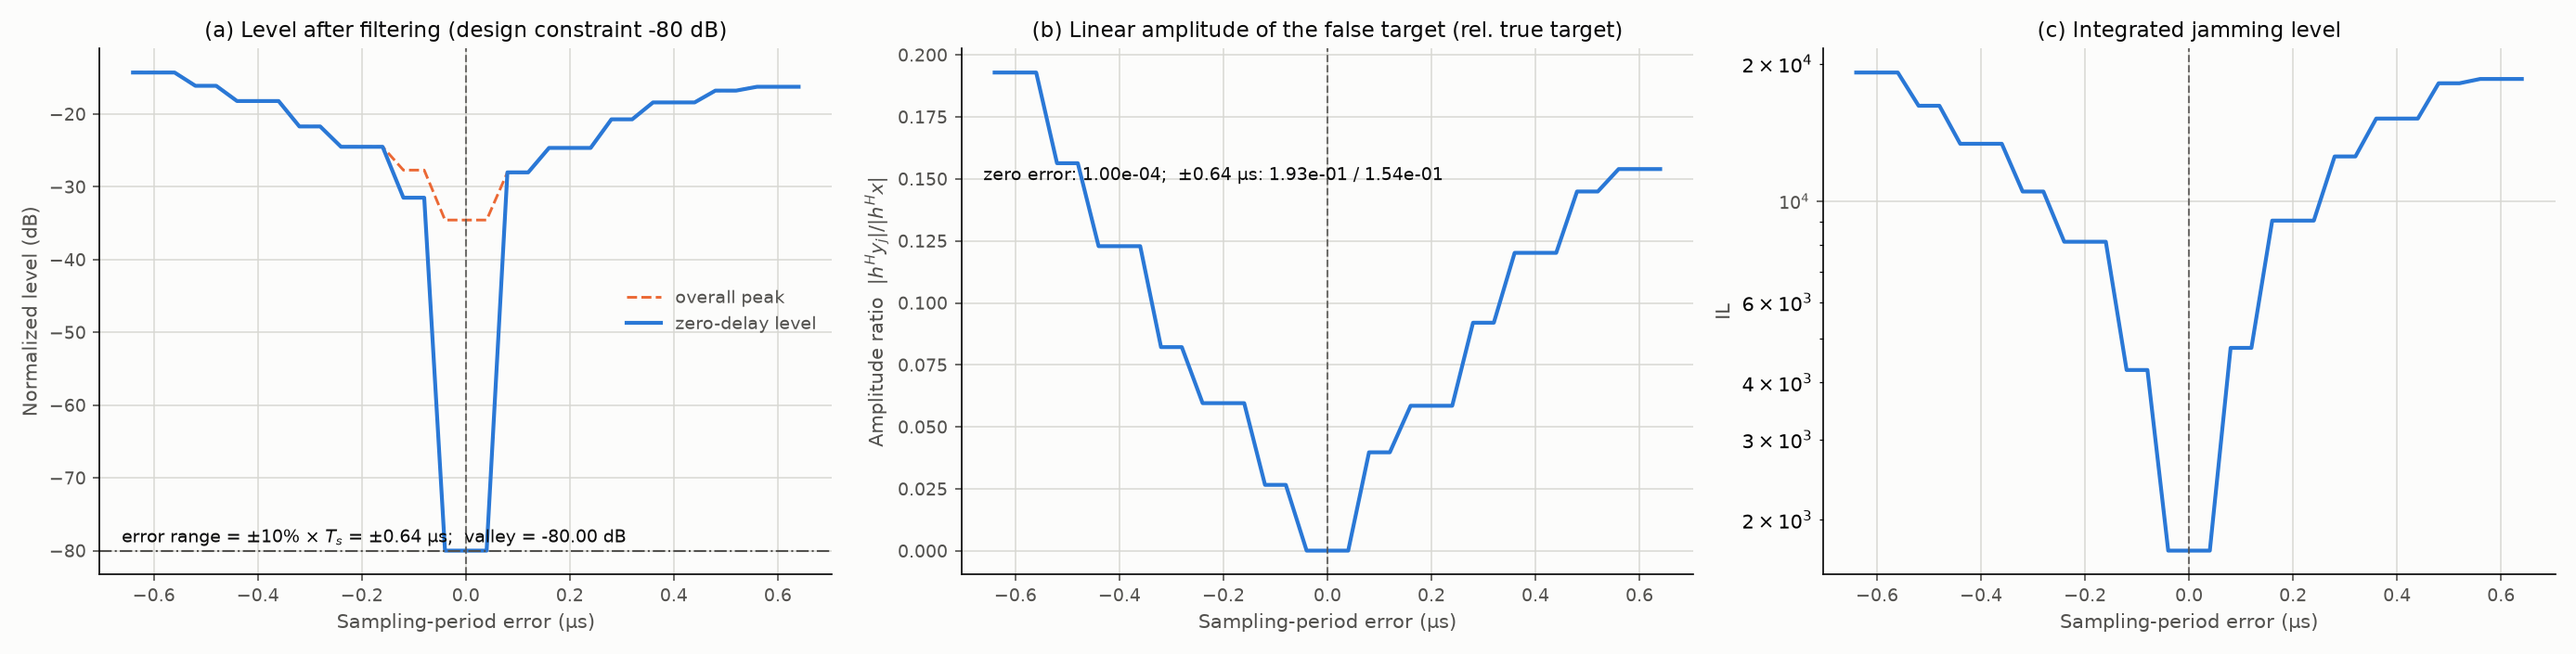
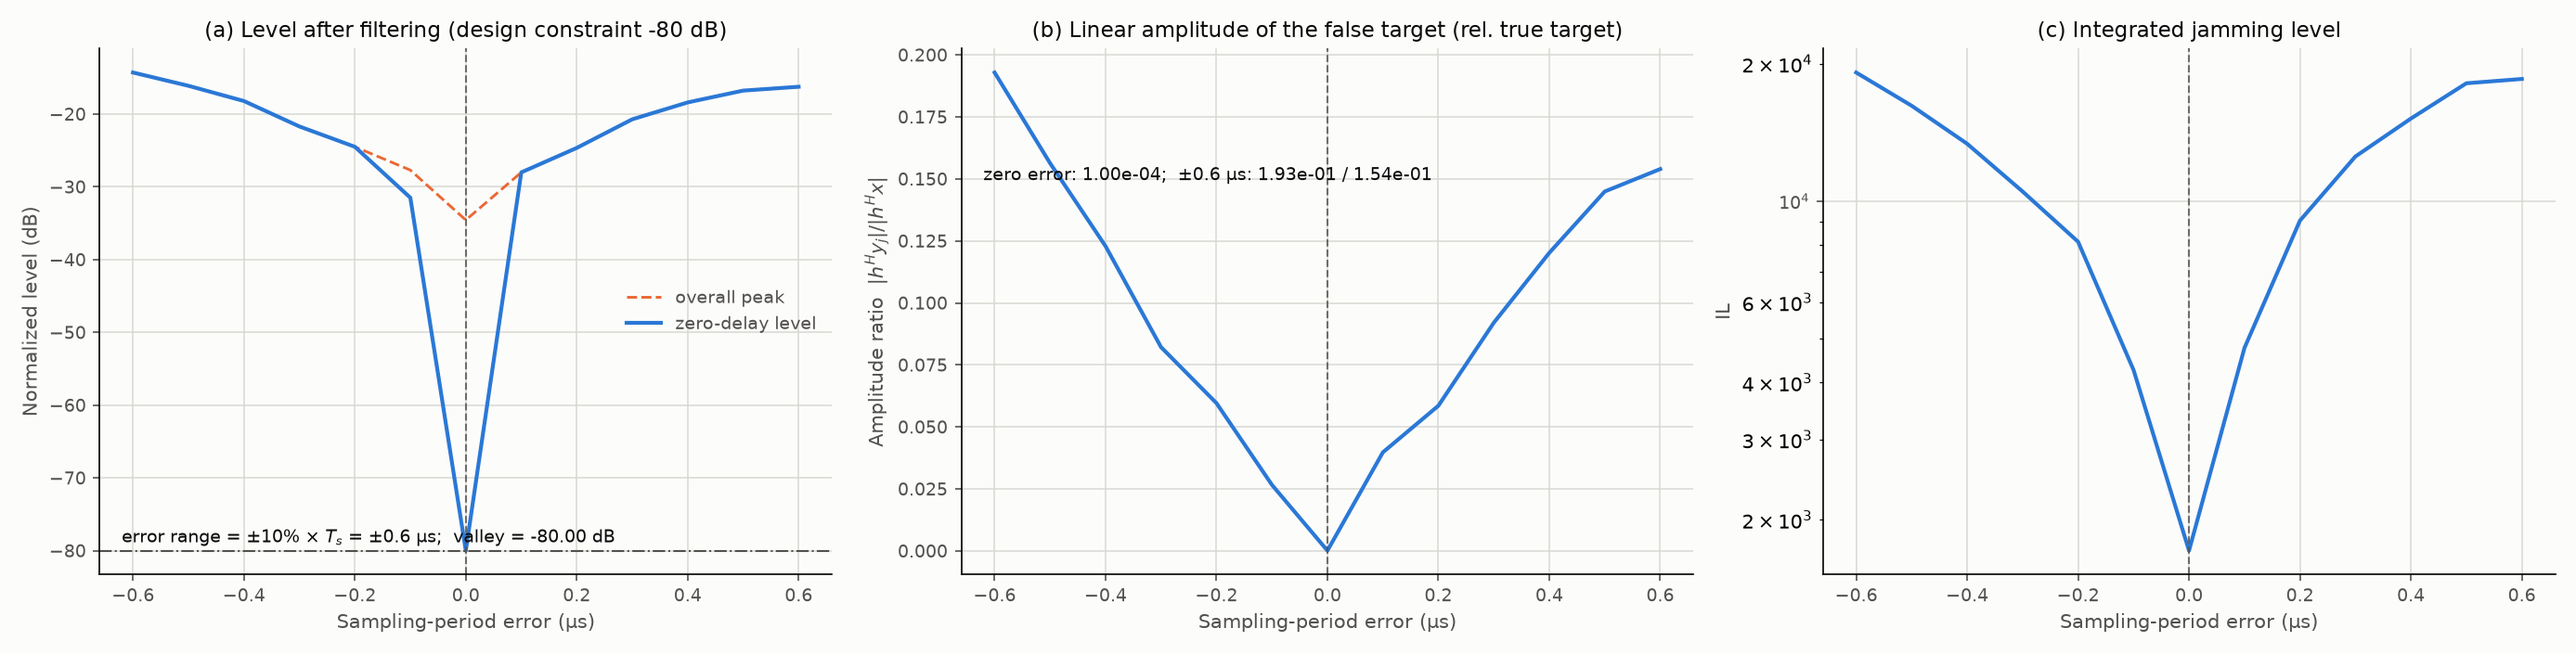
采样周期扫描：取点改为 1 个采样点间隔（0.1 μs），范围对齐到 ±0.6 μs
- 全部取点落在采样网格上（每个点代表一个量化平台）⇒ 曲线是干净折线，无平台跳变
- ±10% 范围向下对齐到 0.1 μs 的整数倍：±0.6 μs，共 13 点
- 数值：谷底 -80.00 dB；±0.1 μs -> -28.02 dB；±0.6 μs -> -14.29 / -16.25 dB

diff --git a/参数搜索/scripts/run_ts_sweep.py b/参数搜索/scripts/run_ts_sweep.py
@@ -10,7 +10,9 @@ L = 256、t_0 = 2 μs、T_L = 1.5 μs、T_s = 6.4 μs），约束深度可用 `-
 
 矩阵链（零延迟原位，未变）：J(θ) = diag(j(θ))、H_j = H·diag(j(θ))、X_j 由 x⊙j 铺成。
 
-误差范围：**±p% × T_s**（`--err-percent`，默认 10% ⇒ ±0.64 μs），步长 `--step-us`（默认 0.04 μs）。
+误差范围：**±p% × T_s**（`--err-percent`，默认 10%），步长 `--step-us`（**默认 1 个采样点
+= 0.1 μs**，取点全部落在采样网格上 ⇒ 每个点代表一个量化平台，曲线是干净的折线）。
+范围会向下对齐到步长的整数倍（10% ⇒ ±0.6 μs，共 13 点）。
 
 用法：
     .venv/Scripts/python.exe 参数搜索/scripts/run_ts_sweep.py
@@ -87,7 +89,8 @@ def main() -> None:
                     help="零延迟干扰约束 [dB]（默认跟随基线）")
     ap.add_argument("--err-percent", type=float, default=10.0,
                     help="误差范围 = ±p%% × T_s（默认 10%%）")
-    ap.add_argument("--step-us", type=float, default=0.04, help="误差步长 [μs]")
+    ap.add_argument("--step-us", type=float, default=baseline.SAMPLE_US,
+                    help="误差步长 [μs]（默认 1 个采样点 = 0.1 μs，取点落在采样网格上）")
     ap.add_argument("--annotate", action="store_true",
                     help="叠加标记点/平台边界虚线/说明（默认：纯折线）")
     args = ap.parse_args()
@@ -97,6 +100,9 @@ def main() -> None:
     OUTDIR.mkdir(parents=True, exist_ok=True)
 
     span = baseline.TS_US * args.err_percent / 100.0
+    # 把范围对齐到步长的整数倍（默认步长 = 1 采样点 ⇒ 取点全落在采样网格上）
+    n_side = int(np.floor(span / args.step_us + 1e-9))
+    span = n_side * args.step_us
     err = np.arange(-span, span + args.step_us / 2, args.step_us)
     print(f"=== 采样周期误差扫描（约束 {args.depth:g} dB，误差 ±{span:g} μs "
           f"= ±{args.err_percent:g}% × T_s）===")

diff --git a/参数搜索/结果/采样周期扫描/结果表_80dB.md b/参数搜索/结果/采样周期扫描/结果表_80dB.md
@@ -2,14 +2,14 @@
 
 设计对：B = 10 MHz、L = 256、t_0 = 2 μs、T_L = 1.5 μs、T_s = 6.4 μs；约束 -80 dB；random_phase、seed 0。
 设计对指标：PSL -28.82 dB、损失 -3.18 dB、零延迟 -80.00 dB。
-误差范围 ±10% × T_s = ±0.64 μs，步长 0.04 μs。
+误差范围 ±10% × T_s = ±0.6 μs，步长 0.1 μs。
 
 | ΔT_s (μs) | 实际 T_s (μs) | 零延迟电平 (dB) | 幅度比 | 抬升 (dB) | IL |
 |---|---|---|---|---|---|
 | -0.60 | 5.80 | -14.29 | 1.929e-01 | +65.71 | 1.915e+04 |
 | -0.40 | 6.00 | -18.21 | 1.229e-01 | +61.79 | 1.336e+04 |
 | -0.20 | 6.20 | -24.50 | 5.957e-02 | +55.50 | 8.145e+03 |
-| +0.00 | 6.40 | -80.00 | 1.000e-04 | +0.00 | 1.711e+03 |
+| -0.00 | 6.40 | -80.00 | 1.000e-04 | +0.00 | 1.711e+03 |
 | +0.20 | 6.60 | -24.65 | 5.851e-02 | +55.34 | 9.063e+03 |
 | +0.40 | 6.80 | -18.40 | 1.202e-01 | +61.60 | 1.518e+04 |
 | +0.60 | 7.00 | -16.25 | 1.540e-01 | +63.75 | 1.854e+04 |
